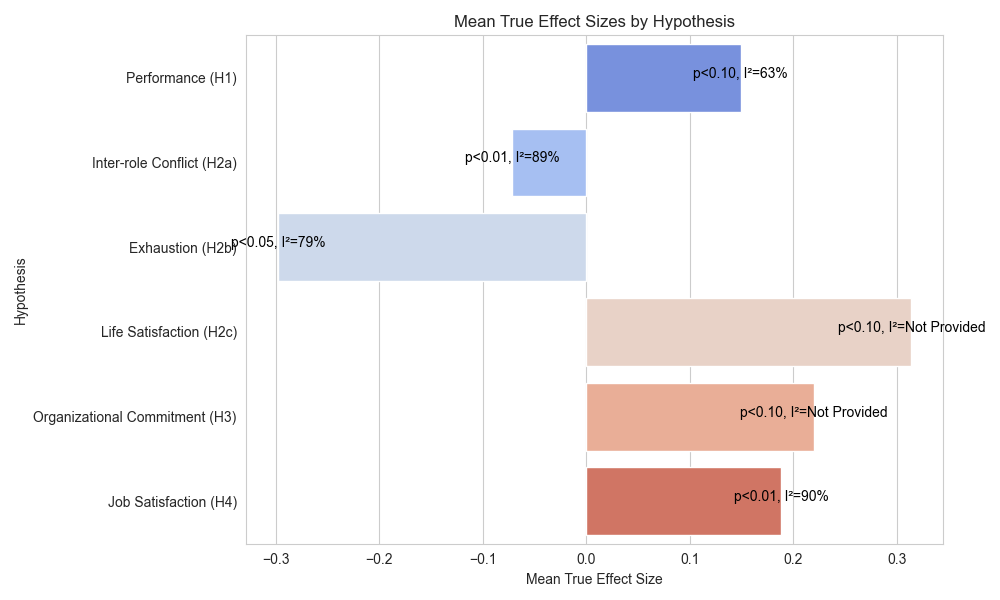
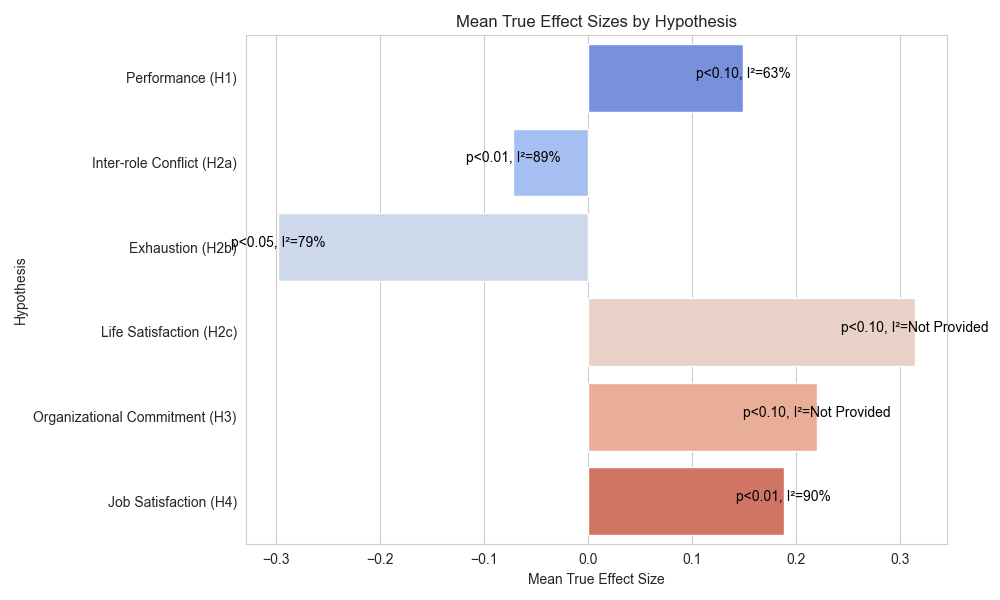
clean up comments

diff --git a/analysis.py b/analysis.py
@@ -2,9 +2,7 @@ import pandas as pd
 import matplotlib.pyplot as plt
 import seaborn as sns
 
-# Adjusting the code to reflect the specific values provided in the dissertation
-# Since the exact raw data for each hypothesis isn't provided, we'll use the reported mean true effect sizes
-# and significance levels directly from the summary provided earlier.
+# Since the exact raw data for each hypothesis isn't provided, we'll use the reported mean true effect sizes and significance levels directly from the summary provided earlier.
 
 # Hypothetical calculations will be replaced with direct inputs based on dissertation findings.
 
@@ -50,9 +48,7 @@ results_df_direct = pd.DataFrame(results_direct)
 # Set the aesthetic style of the plots
 sns.set_style("whitegrid")
 
-# Assuming results_df_direct is already defined and includes the necessary data
-
-# You may want to adjust 'Mean True Effect Size' for visualization purposes, 
+# One may want to adjust 'Mean True Effect Size' for visualization purposes, 
 # e.g., taking the absolute value if you want to visualize the magnitude regardless of direction
 # results_df_direct['Absolute Mean Effect Size'] = results_df_direct['Mean True Effect Size'].abs()
 
@@ -79,7 +75,6 @@ for index, row in results_df_direct.iterrows():
         ha="center"
     )
 
-plt.tight_layout()  # Adjusts plot to ensure everything fits without overlapping
 plt.tight_layout()
 plt.savefig("Results.png")
 
